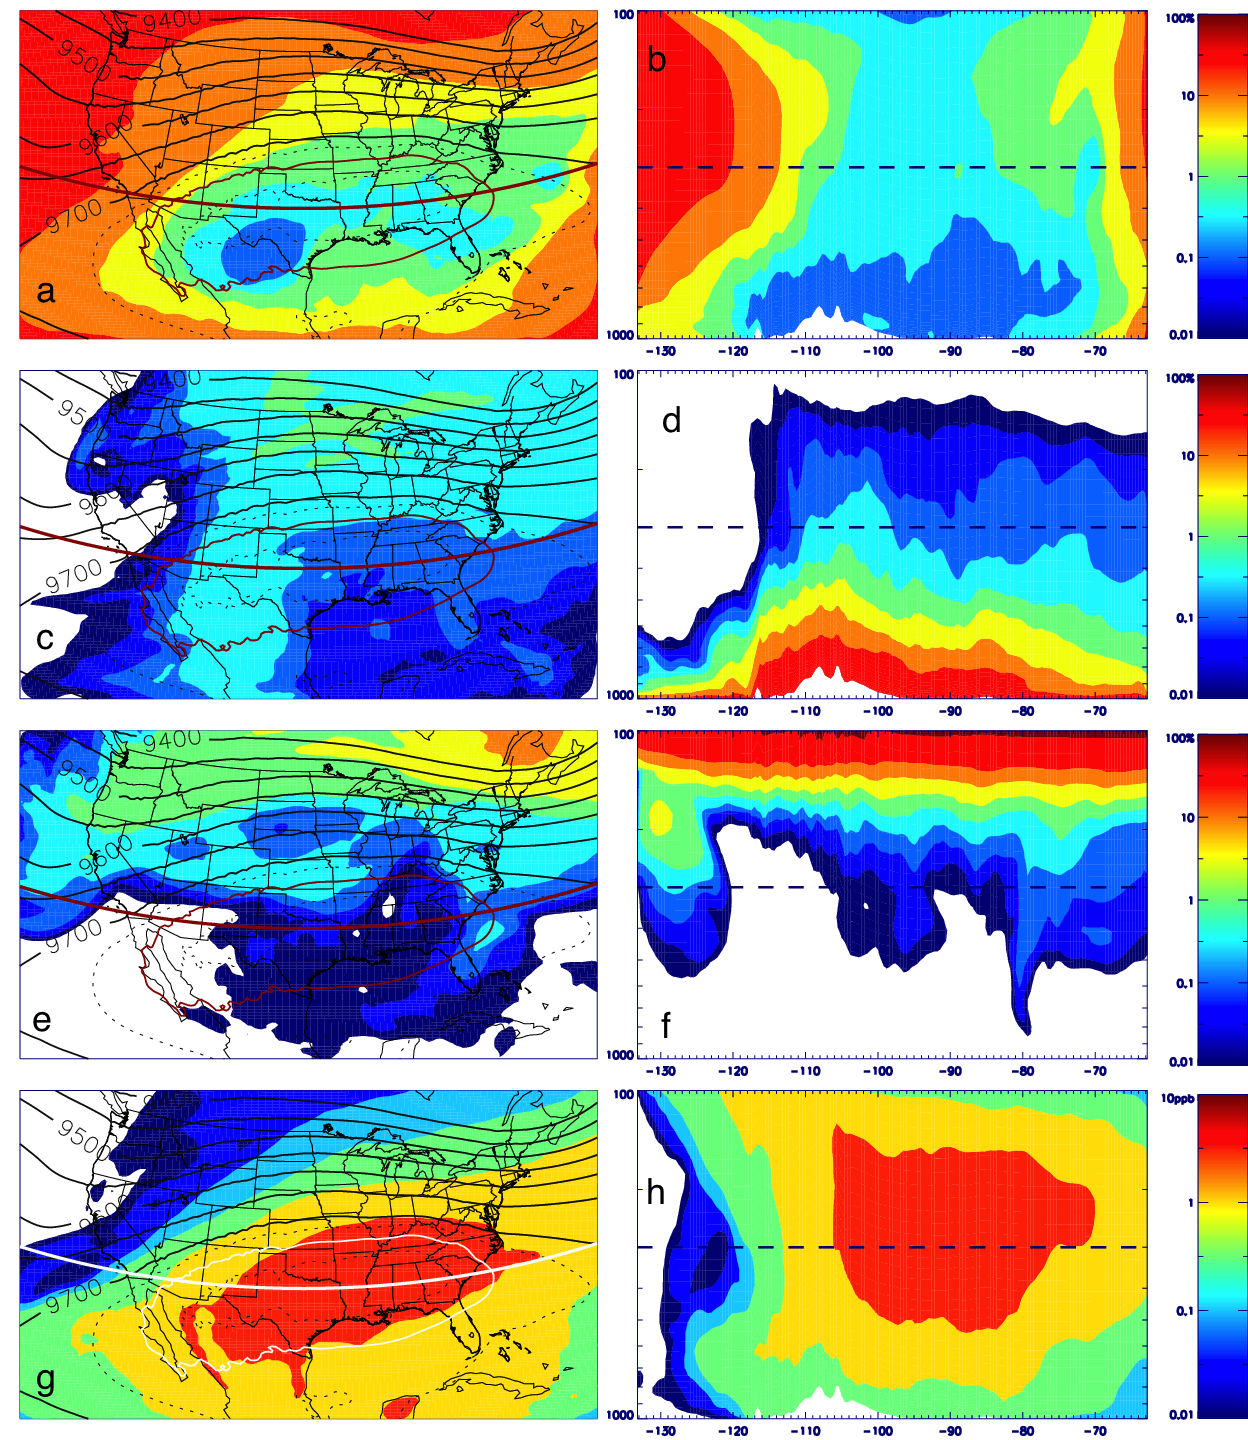
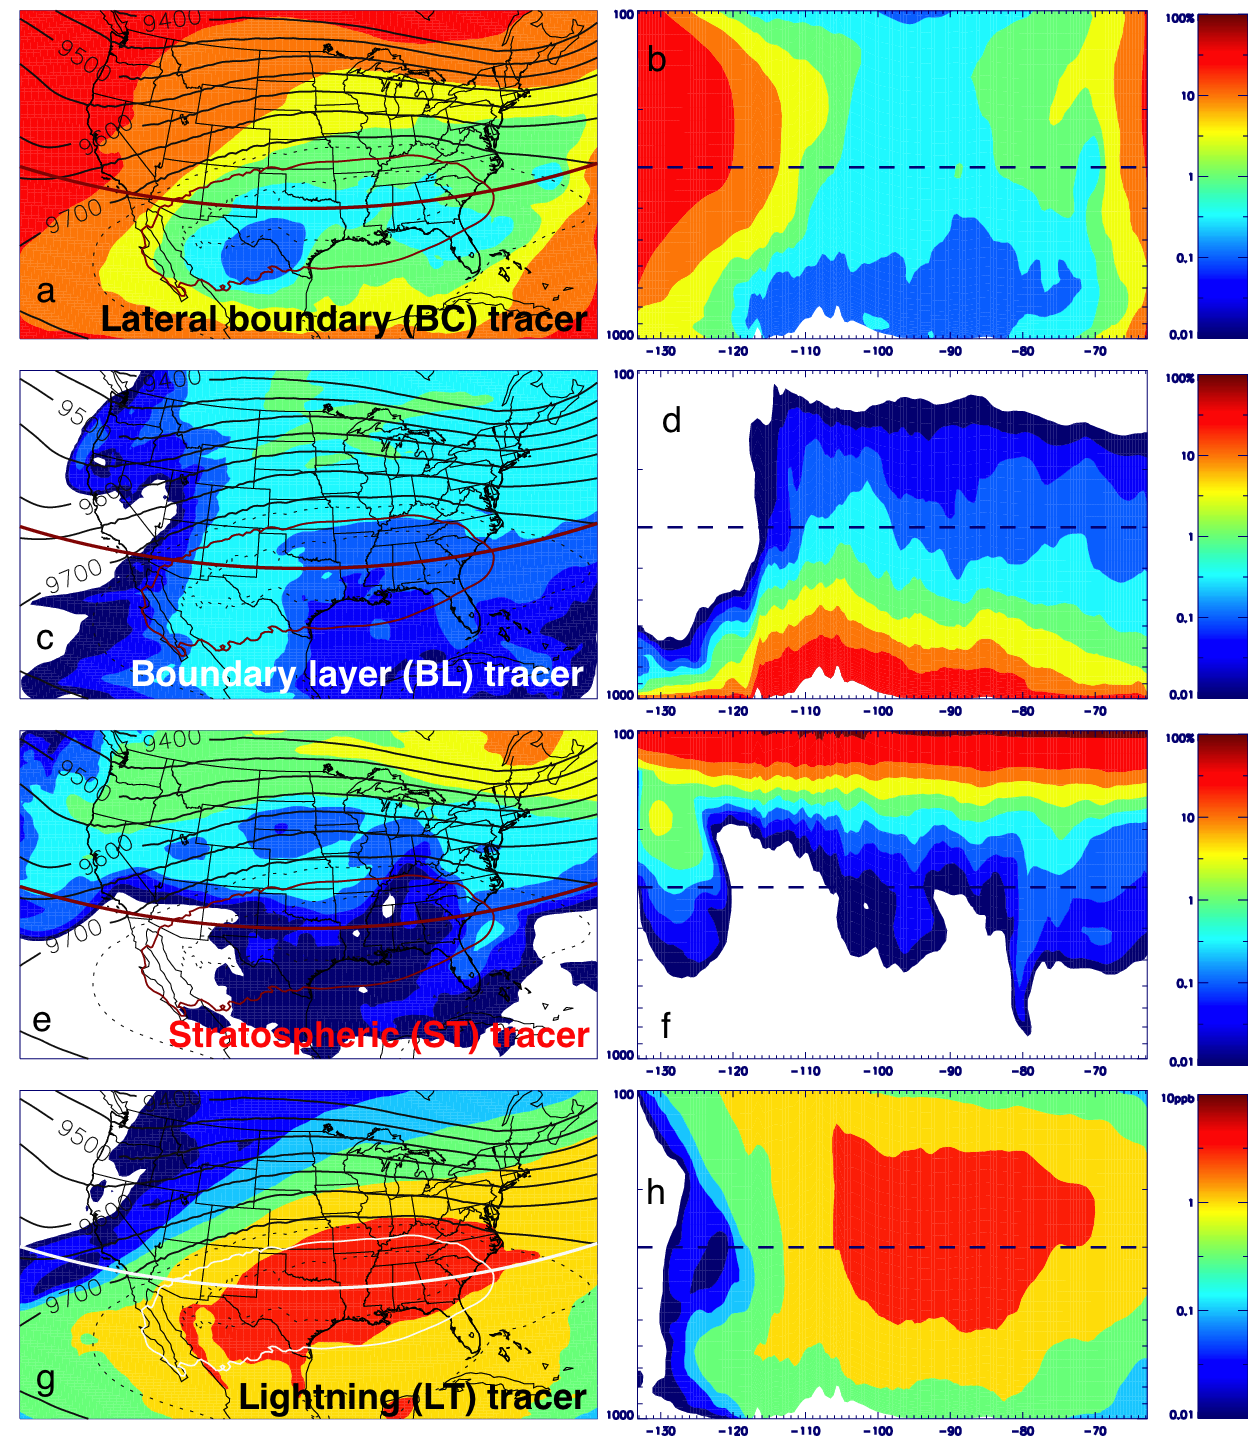
Wrap up tracer relation
Wrapping up sect 3.3.1 on tracer relation
Added figures on age map and passive tracer correlations
Added labels and annotations to tracer maps

diff --git a/Chapter_2006/2006_5.tex b/Chapter_2006/2006_5.tex
@@ -60,11 +60,11 @@ Last row ({\bf g,h}) shows the lightning decaying tracer given in \unit{ppbv}.}{
 
 Figure~\ref{fig:2006/tracers} shows four of the tracers released from the lateral boundaries, the boundary layer, the stratosphere, and
 lightning sources. All tracers shown are the decaying type with a lifetime of 1 day (1-d). The impact of the NAM circulation is clearly shown
-in the spatial distribution of the lateral boundary tracer (Fig.~\ref{fig:2006/tracers}{\bf a}). Within the anticyclone region ($\bar{Z}_{300}
+in the spatial distribution of the lateral boundary (BC) tracer (Fig.~\ref{fig:2006/tracers}{\bf a}). Within the anticyclone region ($\bar{Z}_{300}
 >9730\,\unit{m}$), air mass retains no more than an average of 3\% of the characteristics from any of the boundaries. Since these
 tracers are dynamically-driven, it can be asserted that the impact of boundary condition on the principle results will be minor.
 
-Similarly, lightning tracer also shows substantial localized enhancement within the anticyclone region (Fig.~\ref{fig:2006/tracers}{\bf g}).
+Similarly, lightning LT) tracer also shows substantial localized enhancement within the anticyclone region (Fig.~\ref{fig:2006/tracers}{\bf g}).
 The observed eastward shift from the 9730\,\unit{m} contour can be explained by the overall higher lightning flash rate in the southeastern 
 United States. Accounting for the one order of magnitude deviation from observed CG flash rate, the maximum accumulated lightning
 1-d tracer is 0.5\,\unit{ppbv}. Despite a fixed maximum emission altitude of 6--8\,\unit{km} ($\sim400\,\unit{hPa}$) according to
@@ -74,10 +74,44 @@ after account for overprediction in flash rate) within a wide range of pressure 
 fixed altitude-dependent emission profile, which includes more than 10\% (35\,\unit{moles\,flash^{-1}}) above 12\,\unit{km} for
 subtropical latitudes.
 
-However, the spatial distribution of tropospheric tracer shows little correlation with the shape or positioning of the anticyclone. At
-300\,\unit{hPa}, the features of the tracer is dominated by orographic influence of the Rocky Mountains (Fig.~\ref{fig:2006/tracers}{\bf c}).
-Similarly, stratospheric tracer also shows very minimal impact from the NAM circulation except for the influx of stratospheric air mixing
-across the jet stream in the outflow region along the eastern seaboard.
+However, the spatial distribution of boundary layer (BL) tracer shows little correlation with the shape or positioning of the anticyclone. Instead,
+the features of the tracer at 300\,\unit{hPa} are dominated by orographic influence of the Rocky Mountains (Fig.~\ref{fig:2006/tracers}{\bf c}).
+Similarly, stratospheric (ST) tracer also shows very minimal impact from the NAM circulation except for the influx of stratospheric air eddy
+shedding across the jet stream in the outflow region along the eastern seaboard.
+
+\figuremacroW{tracer/age_maps}{Passive tracer age}{\label{fig:2006/tracer_age}
+Same as Figure~\ref{fig:2006/tracers} except for tracer equivalent age. Darker colored regions represent young tracers, while lighter
+colored/white regions represent aged tracers}{0.9}
+
+The tracer equivalent age, calculated according to Equation~\ref{eqn:tracer-age}, is mapped in Figure~\ref{fig:2006/tracer_age}.
+Similar to the decaying tracer distributions, BC and LT tracers are the only ones showing some correlations with the anticyclone boundary.
+The range of age for BC tracer within the anticyclone is 2.6--6.8 days while the range outside the anticyclone between 9710\,\unit{m} and
+9730\,\unit{m} is 1.5--4.8 days. On the contrary, LT tracer age ranges from 10.9--21.8\,\unit{hrs} within the anticyclone and 13.1--22.5\,\unit{hrs}
+just outside. The primary contribution to the LT distribution is that the anticyclone encompasses areas with high lightning flash frequencies,
+and thus younger tracers are expected only on the eastern $\sim2/3$ of the anticyclone as well as towards the outflow region along
+the East Coast. On the west end of the cross-section (Fig.~\ref{fig:2006/tracer_age}{\bf h}), the presence of high altitude LT tracer
+(Fig.~\ref{fig:2006/tracer}{\bf h}) is shown to be disconnected from the high LT tracer core within the anticyclone
+
+\figuremacroN{tracer/passive_correlations}{BL-ST tracer correlation}{\label{fig:2006/blst}
+Same as Fig.~\ref{fig:2006/o3co} but for BL and ST decaying tracers. \vspace{-.2in}}
+
+Individually, BL and ST are dominated by orographic or large scale features. By correlating the two tracers, differences emerge.
+Figure~\ref{fig:2006/blst} shows the joint distribution between the two decaying tracers. At feature A, or absence thereof within the
+anticyclone, low ST-low BL data points exist only in the mid-troposphere (300--700\,\unit{hPa}) outside the anticyclone. Similarly,
+feature C (moderate ST/BL) occurs outside the anticyclone only. These two features point to higher heterogeneity of air mass sourcing
+outside the anticyclone than within the anticyclone between 700 and slightly above 300\,\unit{hPa}. Such result can be attributed to
+the geographic diversity outside the anticyclone, primarily the presence of marine surfaces. Finally, both regions show very little
+differences close to the tropopause, where ST$\sim1$.
+
+The result in this section partially contradicts that of \citep{Li:2005ss,Cooper:2007cr}, in particular, the conjecture that the anticyclone enables
+higher ozone production through recirculation and entrapment of detrained BL air rich in ozone chemical precursors. The result here shows
+that the vertical colocation of geographical homogeneity as well as meteorological factors (e.g. high lightning intensity) are the key factors
+driving the ozone enhancement. On the other hand, the lack of model lateral boundary influence, as indicative of the BC tracer low within the
+anticyclone, points to low externality as a secondary factor as opposed to internal conditioning. The only\footnote{Despite the lack of aircraft
+emission in the simulation used in this study, it can be argued that the influence of aircraft emission on upper tropospheric ozone production
+may also be enhanced by the transport pattern due to the emission altitude and $x$-$y$ spatial distribution.}exception to the irrelevance of
+internal condition is the influence from lightning emissions, which demonstrate a certain degree of influence from the transport pattern of
+the anticyclone.
 
 
 
